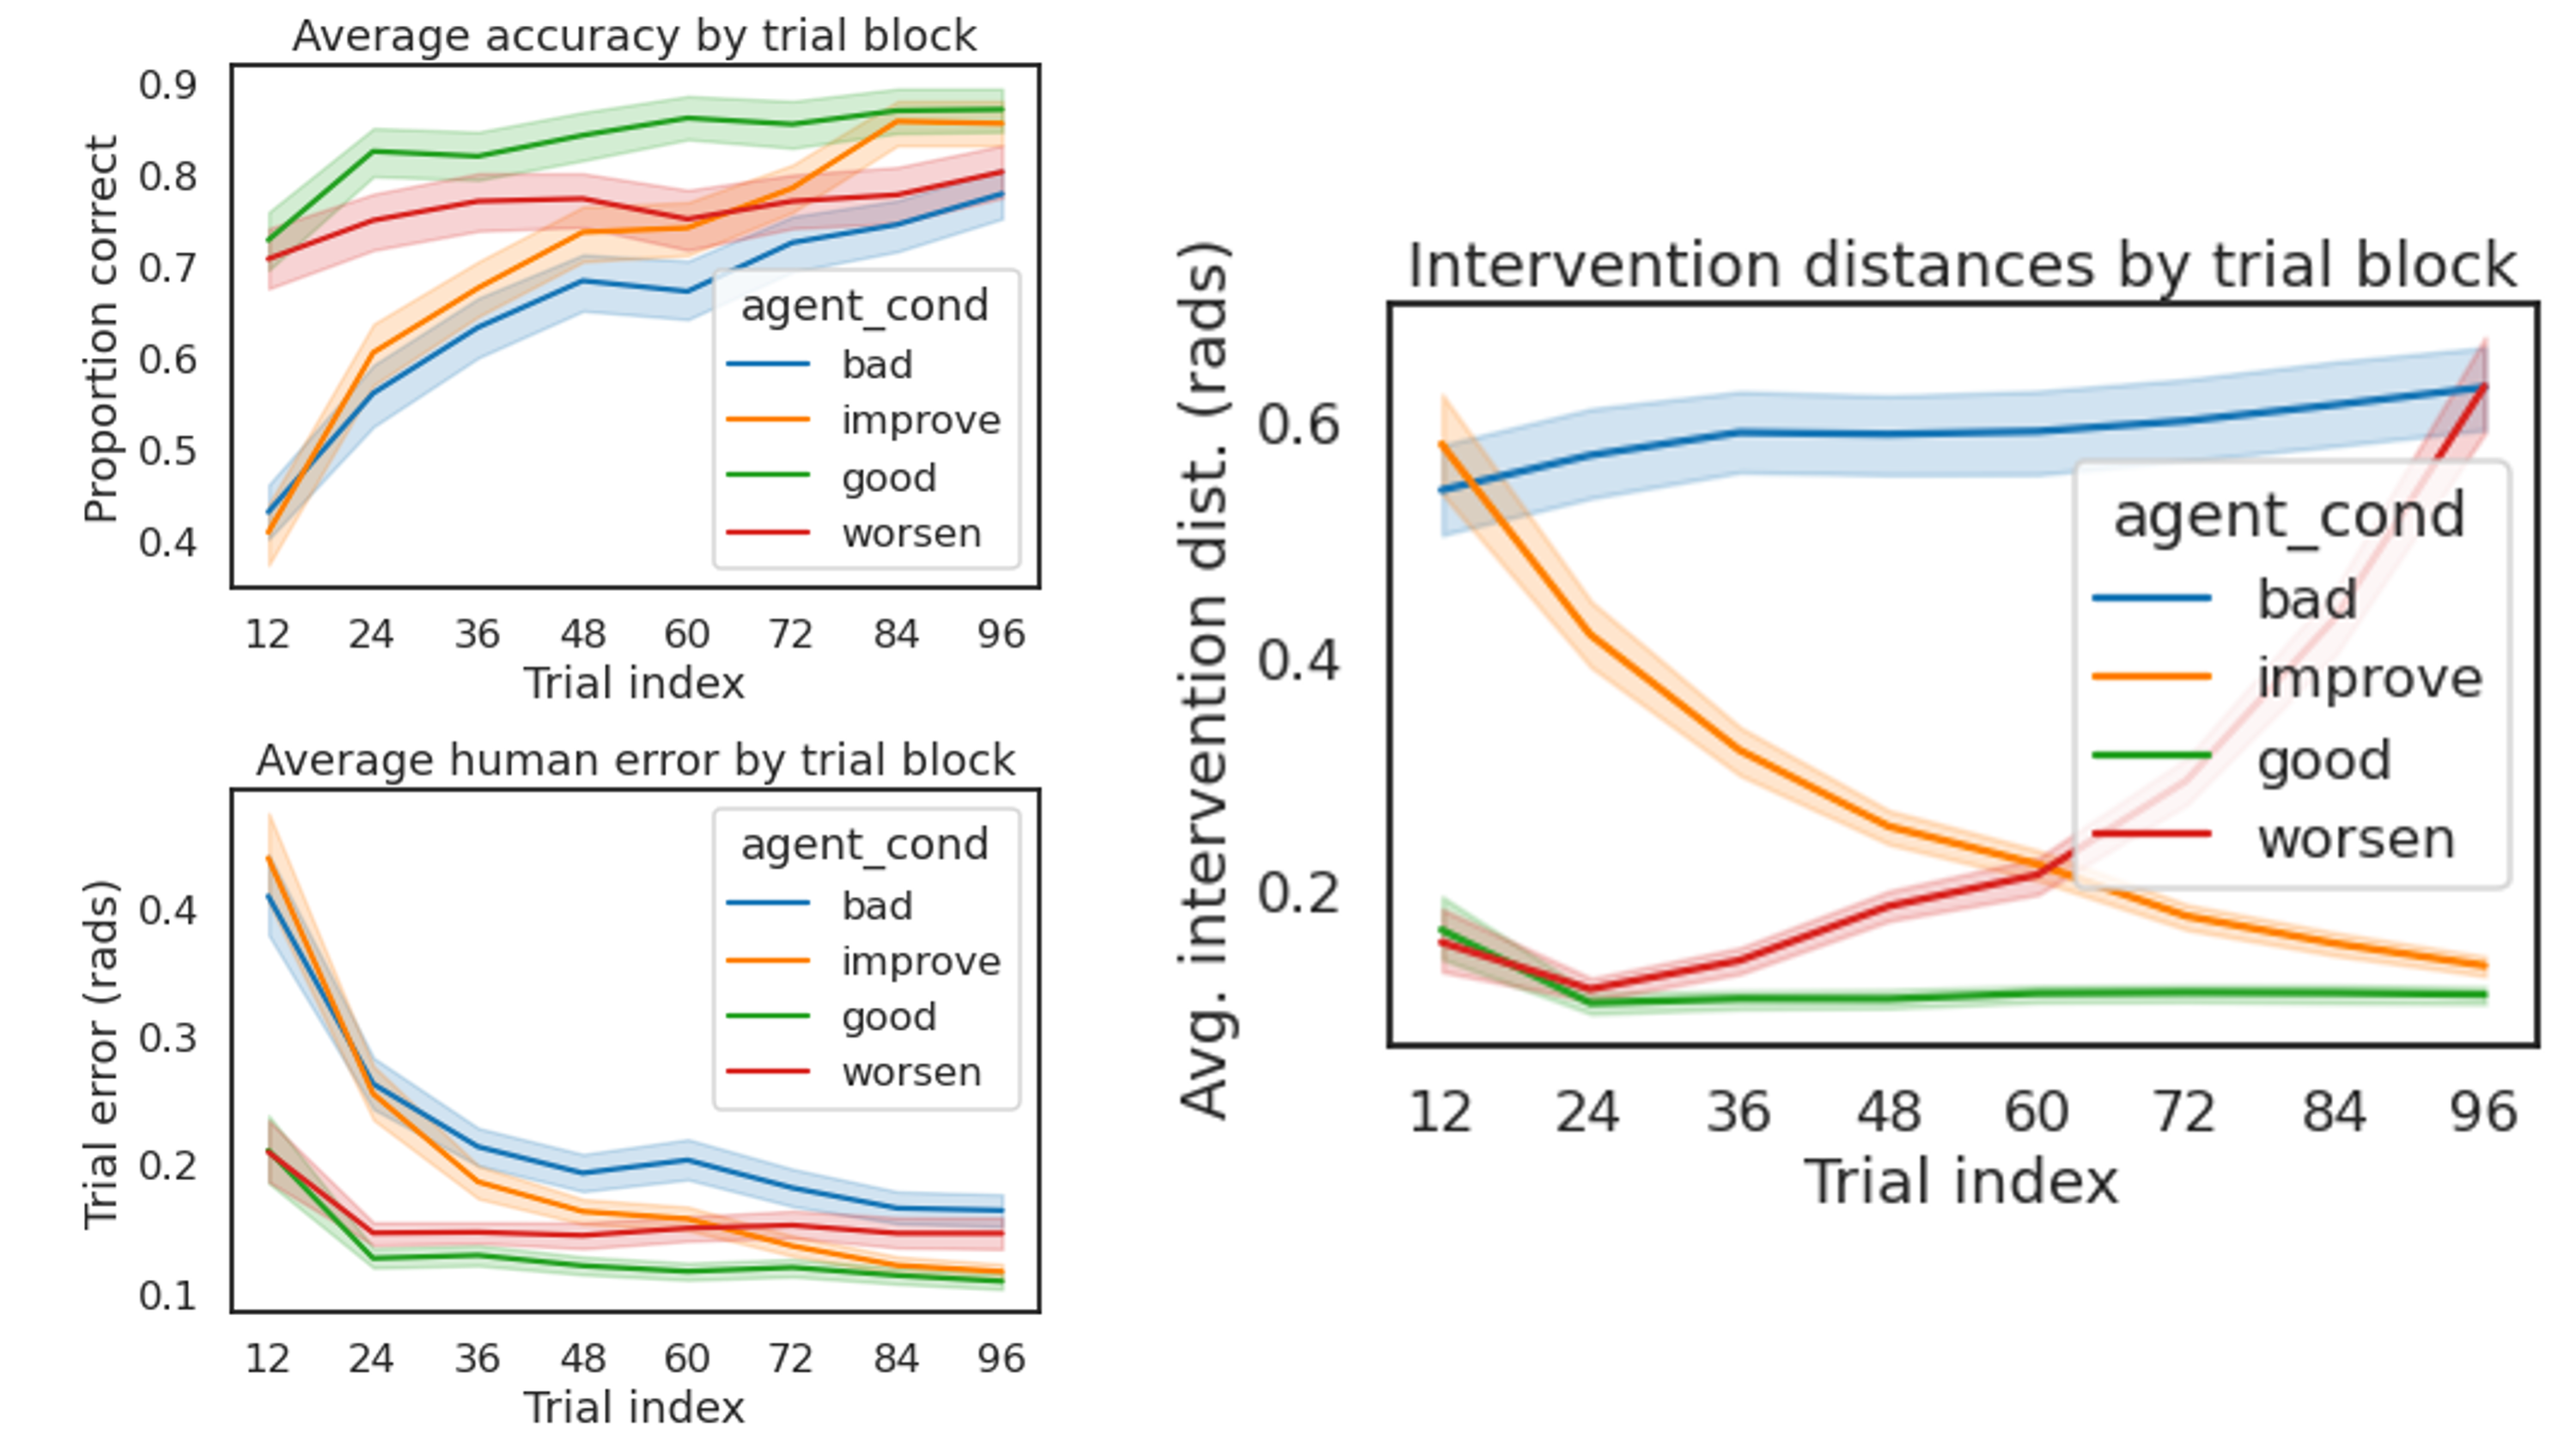
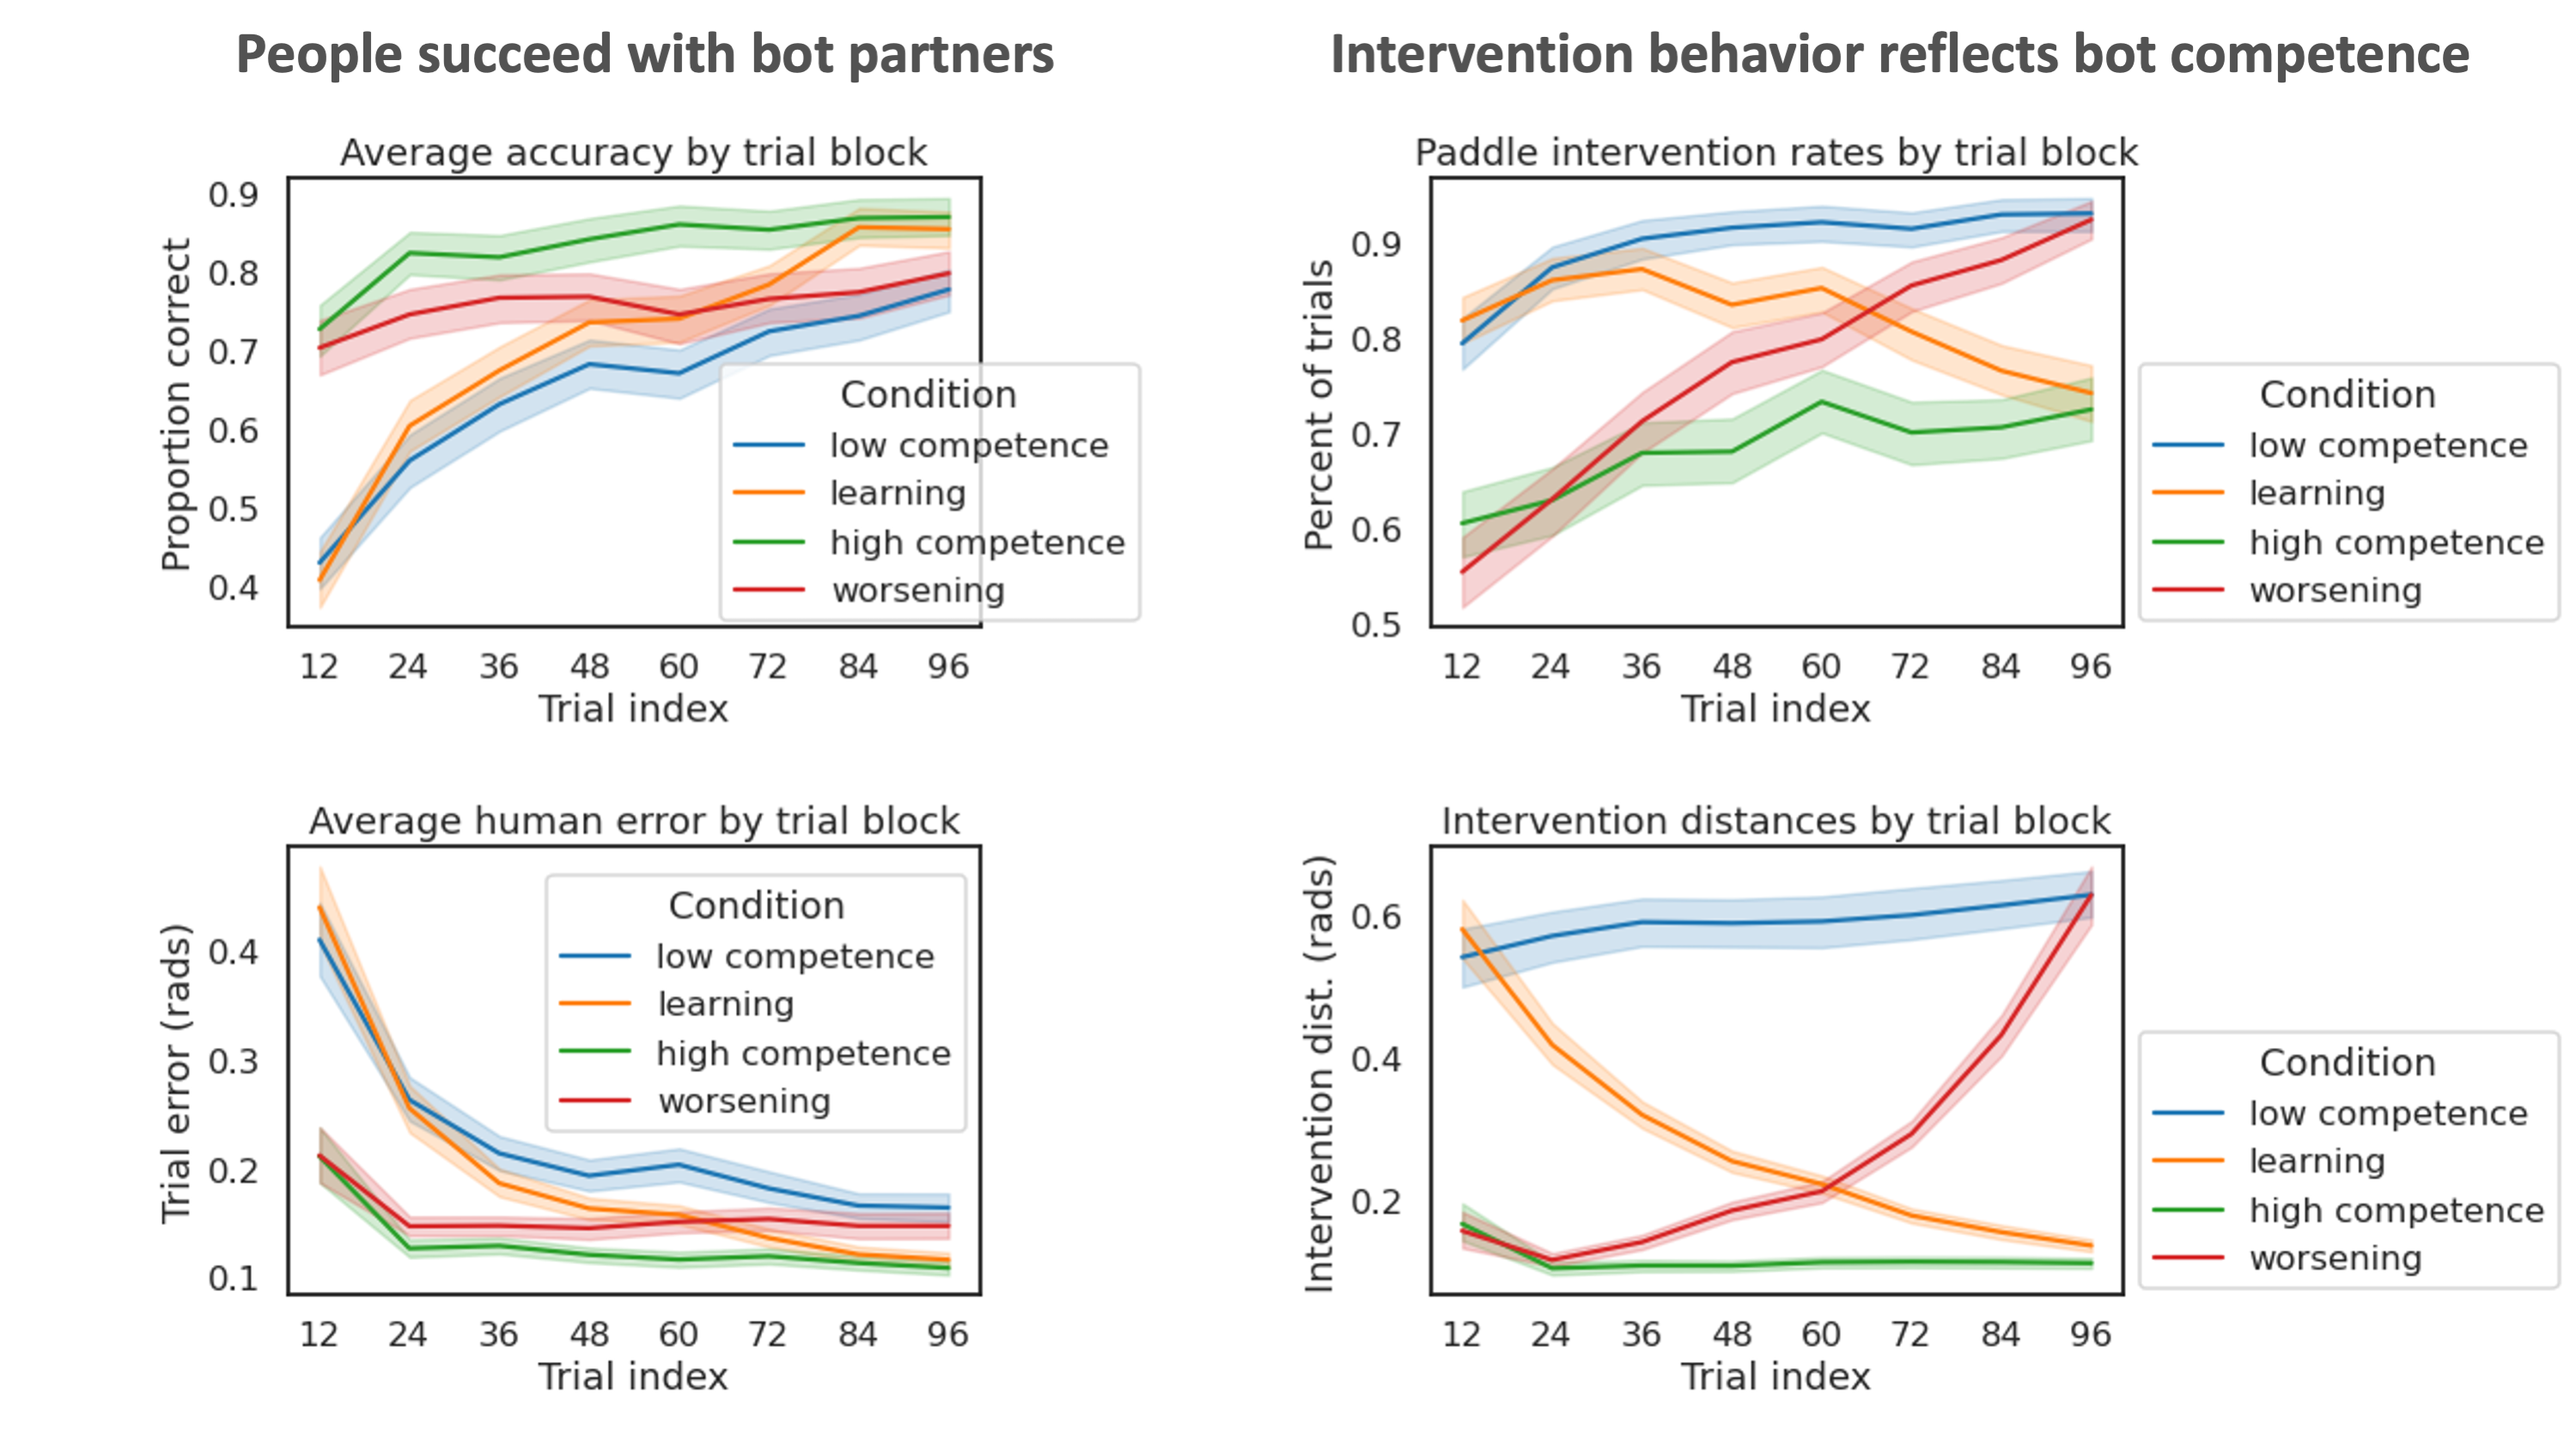
tweak first graphic, add results "model comparison" precursor

Changed region(s): [[0.031, 0.0, 1.0, 0.9864], [0.4962, 0.0308, 0.9613, 0.0616]]

diff --git a/main.tex b/main.tex
@@ -138,7 +138,9 @@ After completing all 96 trials, participants were given a post-experiment questi
 
 \section{Results}
 
-\subsection{People succeeded with all bot partners}
+To understand how participants made the decision about whether to intervene or trust their bot partner, we compare three possible accounts of their decision making. First, it may be that people were entirely trusting of their bot partner, regardless of condition. On this view, we would expect no difference in intervention behavior across conditions and large differences in performance since the bots differed in their underlying accuracy. A second account takes the opposite perspective; instead, people may have essentially ignored their bot partner's suggestions, simply looking for the best paddle location each round (i.e., if the bot partner's suggestion was accurate, people would accept it and if not, they would intervene to correct it). Finally, a third possible account is that people's behavior was somewhere in the middle of these two. Rather than constantly following their bot partner's suggestion or unilaterally choosing the optimal paddle position each round, people may have relied on a combination of their own physical intuitions and the credibility or trustworthiness of their bot partner. [TODO say more here].
+
+\subsection{People succeeded despite differences in bot partner ability}
 
 We first ask whether there were any differences in people's overall ability to perform the task with each of the four bot partners. If people were entirely trusting of their partner's paddle suggestions or were unable to bring their own intuitive physics understanding to bear on the task, this would preclude the possibility that their collaborative decisions reflected nuanced judgments about their partner's competence. To understand how well people performed on the task with each bot partner, we look at how often they were able to catch the ball over the course of the experiment (\textit{accuracy}) and how far their final paddle location was from the ball's ultimate landing position (\textit{error}). Figure \ref{fig:results_summary} shows the average proportion of trials in which participants successfully caught the ball in each trial block across the four conditions (top left). Initially, accuracy was low for the \textit{low competence} and \textit{learning} agent conditions, presumably reflecting the fact that the bot partners gave poor paddle suggestions; participants would have faced low accuracy when trusting their partner and would have had to figure out the mechanics of the task themselves when intervening. In contrast, accuracy was high (between 70 and 80\%) in the \textit{high competence} and \textit{worsening} agent conditions. However, by the end of the experiment, participants all four conditions showed similarly high accuracy, suggesting that they were able to master the task in a way that was aligned with their partner's ability. The bottom left graph in Figure \ref{fig:results_summary} tells a similar story. Average distance of the paddle's center from the location where the ball crossed the circle (error in radians) was initially high for participants in the \textit{low competence} and \textit{learning} conditions but very quickly dropped in subsequent trial blocks and was similarly low across all four conditions by the end of the 96 trials. Broadly, this suggests that while people may have struggled to learn the mechanics of the task when their partner gave inaccurate suggestions, participants in all four groups developed a similar ability to perform the task with their bot partners. 
 
@@ -156,7 +158,7 @@ We first ask whether there were any differences in people's overall ability to p
 The high accuracy level that participants eventually obtained with all four bot partners suggests that their intervention responses were calibrated to the bot's underlying competence. In other words, accurate and low-error responding would have looked very different across the four conditions. With the \textit{high competence} bot partner, participants could achieve high rates of success through minimal intervention, while success in the \textit{low competence} condition necessitated greater and more frequent intervention. Perhaps most interestingly, success with the \textit{learning} and \textit{worsening} agents would have required that participants be sensitive to the changing accuracy of their partner's suggestions. The graph at right in Figure \ref{fig:results_summary} shows average intervention distance (i.e., the average distance in radians between participants' final paddle placement and their bot partner's initial suggestion) in each trial block across the four conditions. Consistent with the hypothesis above, intervention distances were highly calibrated to the bot partner's ability across the four conditions, with large intervention distances in the \textit{low competence} condition, small intervention distances in the \textit{high competence} condition, and intervention distances that roughly tracked the accuracy changes of the \textit{learning} and \textit{worsening} agents. This latter result suggests that people did not regard their bot partner's ability as \textit{static}, instead calibrating their responses to improvement and decline in the bot's accuracy. Thus, the results in Figure \ref{fig:results_summary} indicate that participants succeeded in collaborating with their bot partner on the task and did so by calibrating their interventions to their partner's underlying accuracy.
 
 
-\subsection{Intervention behavior reflected bot ability}
+\subsection{People trusted bot partners}
 
 Given participants' successful calibration to their bot partner over the course of the experiment, one account of people's behavior in the task is that they simply relied on their own intuitive physics model to respond. This internal model may have been poor at first, leading to lower initial accuracy for participants in the \textit{low competence} and \textit{learning} conditions. Critically, on this view, their partner's ability is essentially irrelevant; given the ball's starting location, participants estimated its final landing point and moved the paddle there if it needed to be moved or left it if not. If this were true, then there would be no evidence of \textit{trust} in people's behavior, e.g., minimal adjustments in the \textit{high competence} condition would simply reflect the fact that on most trials, little adjustment was needed (and vice versa for the \textit{low competence} agent). 
 
